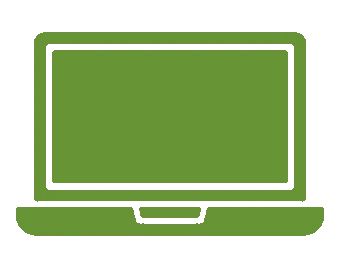
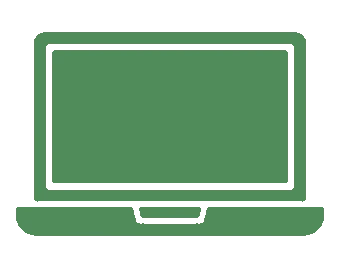
fix colors

diff --git a/src/components/ui/components/Timeline.tsx b/src/components/ui/components/Timeline.tsx
@@ -85,7 +85,7 @@ const Timeline: React.FC<TimelineProps> = ({ data }) => {
             return `translate(${width / 2},${yOffset})`;
           });
 
-        eventGroup.append("circle").attr("r", 4).attr("fill", "#679436");
+        eventGroup.append("circle").attr("r", 4).attr("fill", "#508c5a");
 
         eventGroup
           .append("foreignObject")
@@ -106,7 +106,7 @@ const Timeline: React.FC<TimelineProps> = ({ data }) => {
         <div style="width: 100%">
           ${
             d.date
-              ? `<div style="color: #243119; text-align: center; font-weight: bold; font-size: 14px; margin-bottom: 5px;">${d.date}</div>`
+              ? `<div style="color: #3c705a; text-align: center; font-weight: bold; font-size: 14px; margin-bottom: 5px;">${d.date}</div>`
               : ""
           }
           ${

diff --git a/tailwind.config.ts b/tailwind.config.ts
@@ -18,8 +18,8 @@ const config = {
         sans: ["var(--font-sans)", ...fontFamily.sans],
       },
       colors: {
-        green: "#679436",
-        shadowgreen: "#243119",
+        green: "#508c5a",
+        shadowgreen: "#3c705a",
         grey: "#b0b4b6",
         border: "hsl(var(--border))",
         input: "hsl(var(--input))",
